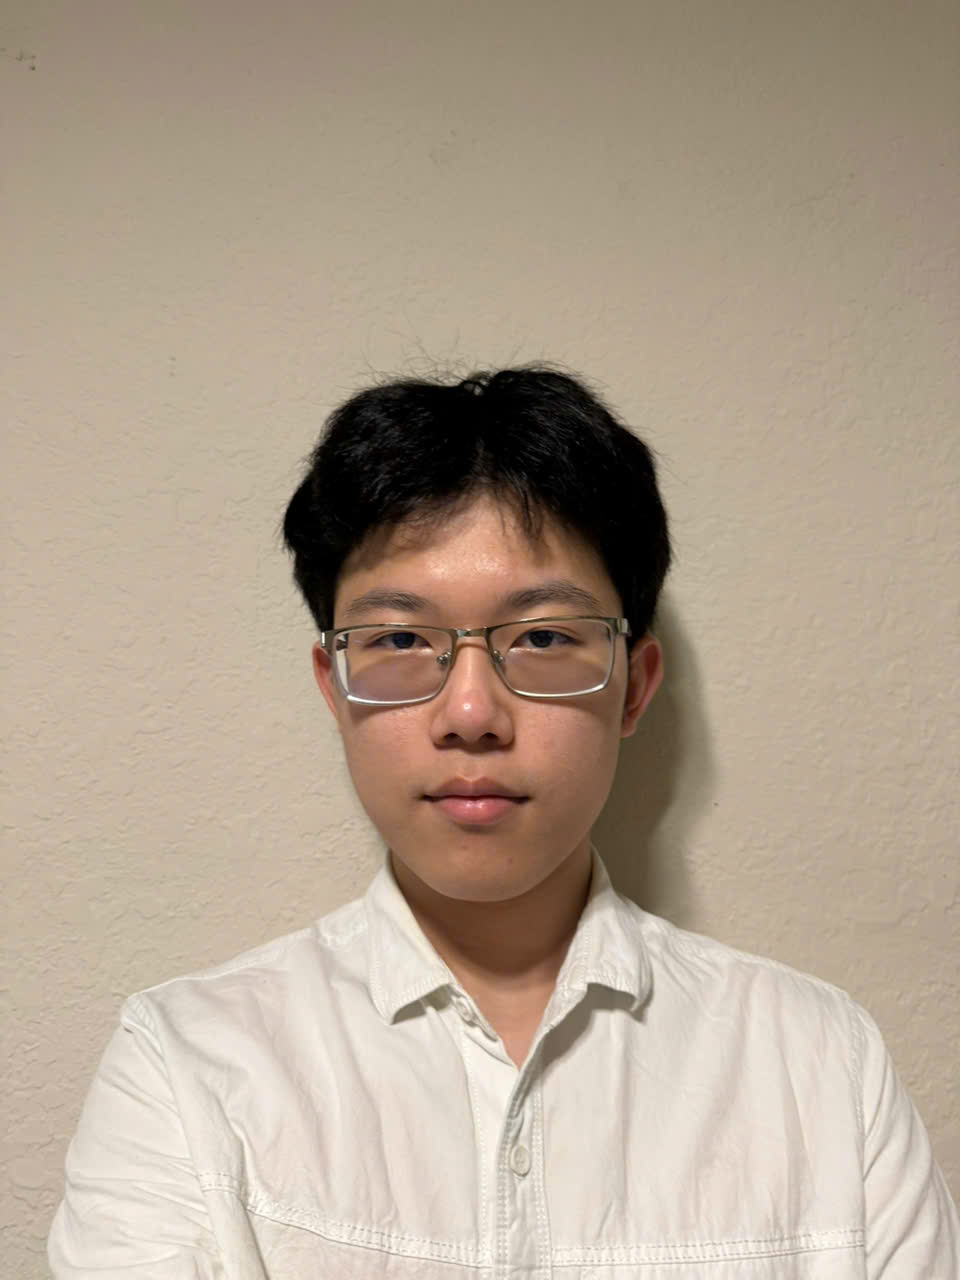
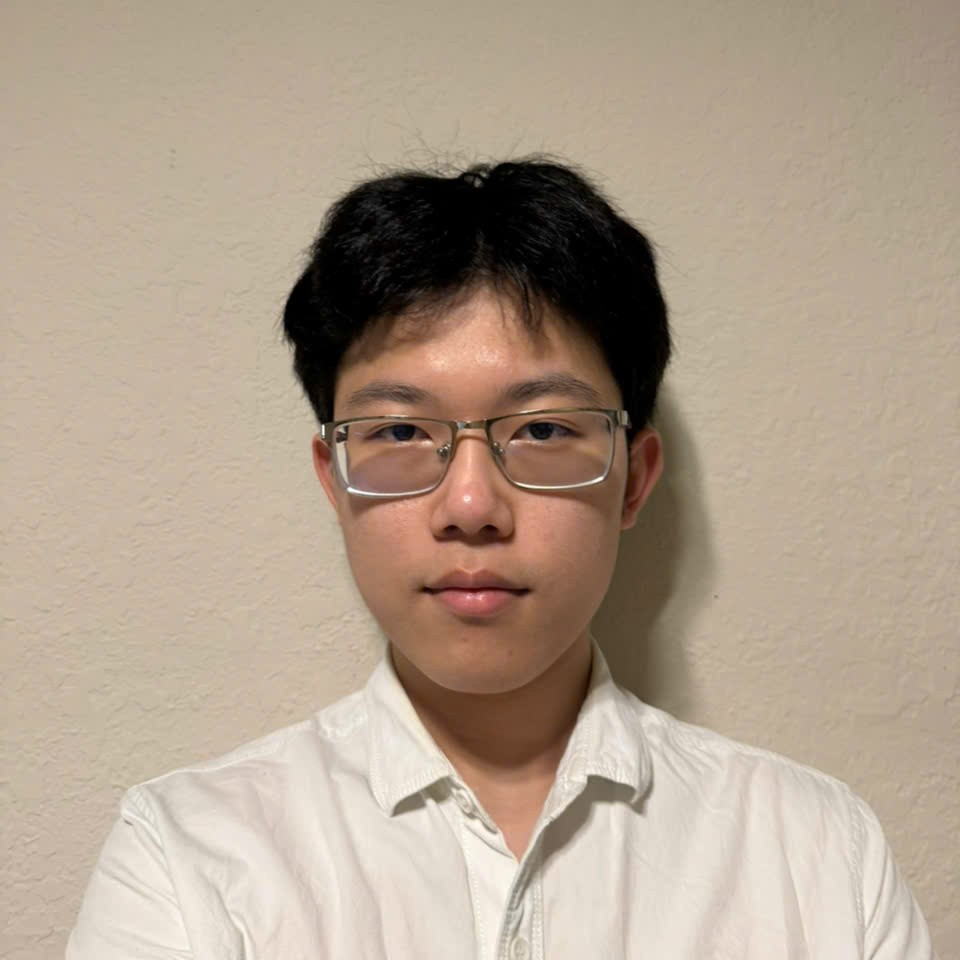
Update profile, projects and experience; add SCP role, tag and role ordering

diff --git a/frontend/src/data/projects.js b/frontend/src/data/projects.js
@@ -3,19 +3,19 @@ const GITHUB = "https://github.com/tanhoangkhoanguyen"
 export const PROJECTS = [
   {
     title: "CostPilot",
-    description: "An LLM spending platform with a Spring Boot API gateway and interactive WebAssembly dashboard, enabling live token usage tracking, budget adjustments, and model access control.",
+    description: "Built an LLM spending platform with a Spring Boot API gateway and interactive WebAssembly dashboard, enabling live token usage tracking, budget adjustments, and model access control.",
     tags: ["Java 21", "Spring Boot", "Kafka", "PostgreSQL", "Redis"],
     link: "https://github.com/khangpt2k6/CostPilot",
   },
   {
     title: "LLMGuard",
-    description: "An LLM reliability gateway with admission control and retries that translates OpenAI-format requests into each provider's native API, sustaining 65 successful requests/s under 8× overload.",
+    description: "Developed an LLM reliability gateway with admission control and retries that translates OpenAI-format requests into each provider's native API, sustaining 65 successful requests/s under 8× overload.",
     tags: ["Go", "Redis", "nginx", "OpenTelemetry", "ClickHouse", "Docker"],
     link: `${GITHUB}/LLMGuard`,
   },
   {
     title: "DocuMedAI",
-    description: "An LLM orchestrator that decomposes each medical request into subtasks and runs them concurrently across nested worker pools, cutting orchestration latency by 47%.",
+    description: "Led a 3-person team building an LLM orchestrator that decomposes each request into subtasks and runs them concurrently across nested worker pools, cutting orchestration latency by 47%.",
     tags: ["Python", "LangGraph", "CrewAI", "Qdrant", "MongoDB", "Docker"],
     link: `${GITHUB}/DocuMedAI`,
   },
@@ -26,3 +26,19 @@ export const PROJECTS = [
     link: `${GITHUB}/VectorBench`,
   },
 ]
+
+/**
+ * Skill group for project tags that aren't listed in skills.js, so tags can be ordered
+ * Languages → Frameworks → Databases & Messaging → Cloud & Tools.
+ */
+export const TAG_GROUPS = {
+  "Java 21": "Languages",
+  LangGraph: "Frameworks",
+  CrewAI: "Frameworks",
+  Milvus: "Databases & Messaging",
+  Weaviate: "Databases & Messaging",
+  Vespa: "Databases & Messaging",
+  ChromaDB: "Databases & Messaging",
+  nginx: "Cloud & Tools",
+  OpenTelemetry: "Cloud & Tools",
+}

diff --git a/frontend/src/data/experience.js b/frontend/src/data/experience.js
@@ -1,10 +1,14 @@
 /**
  * `start` / `end` are "MM/YYYY" (or "Present") and drive both the displayed period and timeline spacing.
+ * `type` ("intern" | "lab" | "club") breaks ties when roles end at the same time (intern first).
+ * Optional `achievements` ({ title, result, date, image }) show as cards under the bullets; `image` opens in a preview.
+ * Order here doesn't matter: lib/roles.js sorts by most recent end date.
  */
 export const ROLES = [
   {
     company: "TruState",
     title: "Software Engineer Intern",
+    type: "intern",
     start: "05/2026",
     end: "Present",
     location: "Tampa, FL",
@@ -18,6 +22,7 @@ export const ROLES = [
   {
     company: "CSAIL Lab",
     title: "Research Assistant",
+    type: "lab",
     start: "03/2026",
     end: "Present",
     location: "Tampa, FL",
@@ -25,8 +30,27 @@ export const ROLES = [
     bullets: [],
   },
   {
+    company: "Society of Competitive Programmers (SCP)",
+    title: "Tech Lead",
+    type: "club",
+    start: "12/2025",
+    end: "Present",
+    location: "Tampa, FL",
+    logo: "/scp.jpg",
+    bullets: [],
+    achievements: [
+      {
+        title: "ICPC Southeast USA Regional",
+        result: "35th place",
+        date: "Nov 2024",
+        image: "/icpc-2024-southeast-regional.png",
+      },
+    ],
+  },
+  {
     company: "Rare Lab",
     title: "Research Assistant",
+    type: "lab",
     start: "01/2025",
     end: "05/2025",
     location: "Tampa, FL",
@@ -40,6 +64,7 @@ export const ROLES = [
   {
     company: "FPT Software",
     title: "Software Engineer Intern",
+    type: "intern",
     start: "05/2025",
     end: "08/2025",
     location: "Danang, VN",

diff --git a/frontend/src/data/profile.js b/frontend/src/data/profile.js
@@ -1,15 +1,21 @@
+const RESUME_ID = "160-MRAkbvphSb95M2-FjeWCT7nKjMbM-"
+
 export const PROFILE = {
   fullName: "Cole Nguyen",
   firstName: "Cole",
   photo: "/profile.jpg",
-  jobTitles: ["Software Engineer", "Backend Engineer", "AI Engineer", "Infrastructure Engineer"],
-  bio: "I am a passionate developer who sees coding as something magical — a journey where every challenge becomes an opportunity for growth. I'm also a big fan of K-dramas — mostly for the plot, but somehow they steal more of my time than coding.",
+  jobTitles: ["Software Engineer", "Distributed Systems Software Engineer", "Full-Stack Engineer", "Backend Engineer", "AI Engineer"],
+  tagline: "I build distributed systems, full-stack products and AI tooling that stay fast and reliable under real load.",
+  bio: "A passionate developer who sees coding as something magical - turning challenges into opportunities to learn, build, and grow.\nWhen not coding, probably watching K-dramas for the plot… though somehow they keep stealing more time than coding.",
   facts: [
     { label: "School", value: "University of South Florida" },
     { label: "Major", value: "Computer Science" },
+    { label: "Minor", value: "Mathematics" },
     { label: "Focus", value: "Backend, Infrastructure & AI Engineering" },
   ],
-  resumeUrl: "https://drive.google.com/file/d/160-MRAkbvphSb95M2-FjeWCT7nKjMbM-/view?usp=sharing",
+  resumeUrl: `https://drive.google.com/file/d/${RESUME_ID}/view?usp=sharing`,
+  /** Direct-download link for the same Drive file. */
+  resumeDownloadUrl: `https://drive.google.com/uc?export=download&id=${RESUME_ID}`,
 }
 
 export const CONTACT = {

diff --git a/frontend/src/lib/tags.js b/frontend/src/lib/tags.js
@@ -1,0 +1,19 @@
+import { PROJECTS, TAG_GROUPS } from "../data/projects"
+import { SKILL_GROUPS } from "../data/skills"
+
+const groupIndex = (title) => SKILL_GROUPS.findIndex((g) => g.title === title)
+
+const GROUP_OF = {
+  ...Object.fromEntries(SKILL_GROUPS.flatMap((g, i) => g.items.map((item) => [item.name, i]))),
+  ...Object.fromEntries(Object.entries(TAG_GROUPS).map(([tag, title]) => [tag, groupIndex(title)])),
+}
+
+/** How many projects use each tag. */
+export const TAG_COUNTS = PROJECTS.flatMap((p) => p.tags).reduce((counts, tag) => ({ ...counts, [tag]: (counts[tag] ?? 0) + 1 }), {})
+
+const rank = (tag) => GROUP_OF[tag] ?? SKILL_GROUPS.length
+
+/** Skill-group order first (Languages → Frameworks → Databases & Messaging → Cloud & Tools), then most-used. */
+export const compareTags = (a, b) => rank(a) - rank(b) || TAG_COUNTS[b] - TAG_COUNTS[a]
+
+export const sortTags = (tags) => [...tags].sort(compareTags)

diff --git a/frontend/src/lib/roles.js b/frontend/src/lib/roles.js
@@ -1,0 +1,23 @@
+import { ROLES as RAW_ROLES } from "../data/experience"
+
+const TYPE_RANK = { intern: 0, lab: 1, club: 2 }
+
+export const isCurrent = (role) => /present/i.test(role.end)
+
+/** "MM/YYYY" → first of that month; "Present" → first of the current month. */
+export function parseMonth(value) {
+  if (/present/i.test(value)) {
+    const now = new Date()
+    return new Date(now.getFullYear(), now.getMonth(), 1)
+  }
+  const [month, year] = value.split("/").map(Number)
+  return new Date(year, month - 1, 1)
+}
+
+/** Most recent end first; same end → intern, then lab, then club; then most recent start. */
+export const ROLES = [...RAW_ROLES].sort(
+  (a, b) =>
+    parseMonth(b.end) - parseMonth(a.end) ||
+    (TYPE_RANK[a.type] ?? 9) - (TYPE_RANK[b.type] ?? 9) ||
+    parseMonth(b.start) - parseMonth(a.start)
+)
